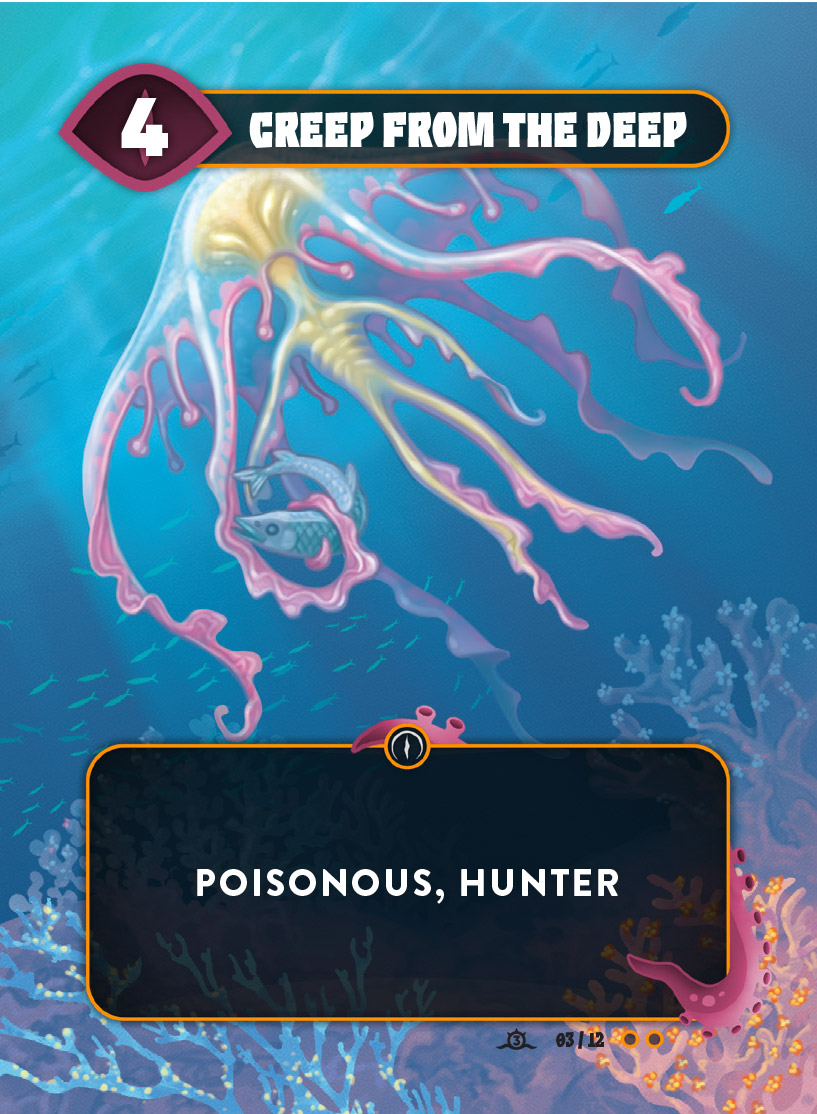
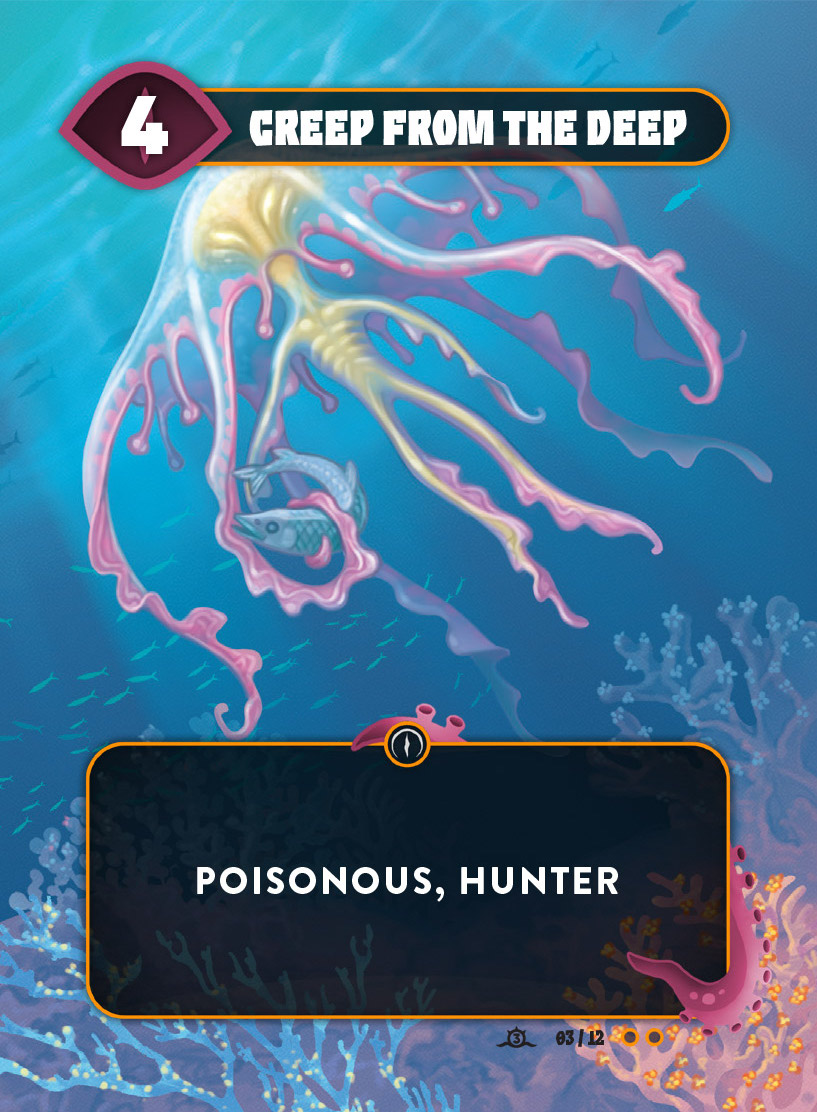
Added in updated promo card art.

diff --git a/script.js b/script.js
@@ -3216,7 +3216,7 @@ function placeCards(array) {
             } else if (this.pack == "Beyond Eternity") {
                 $(".card-container").append(`<img class="card" src="./img/beyond-eternity/${name}.jpg">`)
             } else if (this.pack == "Promo") {
-                $(".card-container").append(`<img class="card" src="./img/promo/${name}.png">`)
+                $(".card-container").append(`<img class="card" src="./img/promo/${name}.jpg">`)
             }
         });
     } else {

diff --git a/style.css b/style.css
@@ -446,3 +446,31 @@ select:hover {
 .autocomplete input {
     margin: 10px 0 10px 5px;
 }
+
+/*BEGIN ANIMATION*/
+
+.flip {
+    animation: flip 1s linear forwards;
+}
+
+@keyframes flip{
+    0%{
+      transform: rotateY(0);
+    }
+    100%{
+      transform: rotateY(90deg);
+    }
+}
+
+.reverse {
+    animation: reverse 1 linear forwards;
+}
+
+@keyframes reverse{
+    0%{
+    transform: rotateY(90deg);
+    }
+    100%{
+      transform: rotateY(0deg);
+    }
+}
